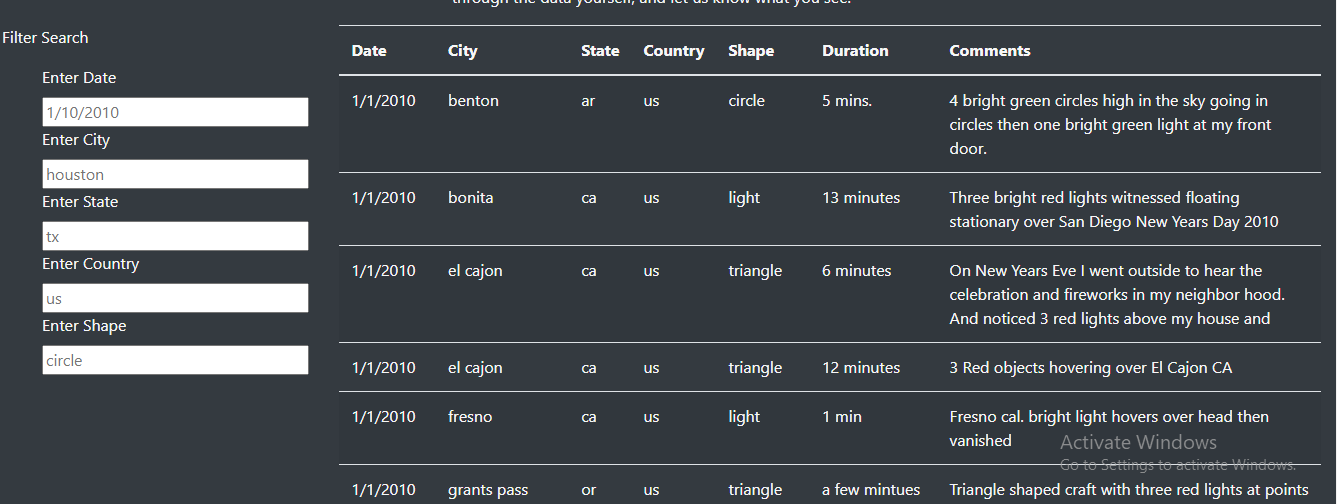
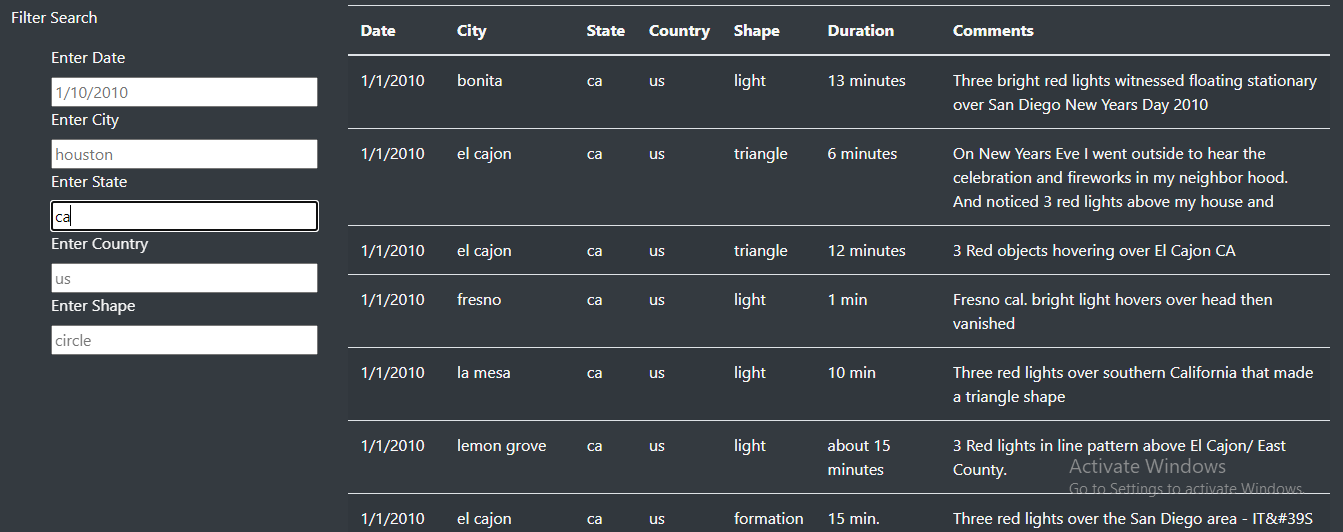
Updated README and new caFilter.png

diff --git a/README.md b/README.md
@@ -7,12 +7,15 @@ In the original UFO Sightings webpage, it was only possible to filter by date. H
 
 A user can use the input fields on the left side to narrow down their search. If I am a resident in California, I could filter by filling in 'ca' in the "Enter State" field like so: 
 
-A user then can see what findings within their state have been documented. If they are then interested in see what UFO sightings have occurred near them, they can refine the search further by typing in a city name in the "Enter City" field. Foe El Cajon, CA, it looks like such: 
+![California Filter](Resources/caFilter.PNG)
 
+A user then can see what findings within their state have been documented. If they are then interested in see what UFO sightings have occurred near them, they can refine the search further by typing in a city name in the "Enter City" field. For El Cajon, CA, it looks like such: 
+
+![El Cajon Filter](Resources/elcajonFilter.PNG)
 
 And then finally, if a user wanted to confirm a suspicion that they say a UFO near them on a particular day, they can confound their story by searching for sightings for that day. Say this same user who lives near El Cajon, CA thought they saw a UFO on 1/4/2010 can search for that by entering that date in the "Enter Date" field:
 
-
+![1/4/2010 Filter](Resources/dateFilter.PNG)
 
 # Summary
 
